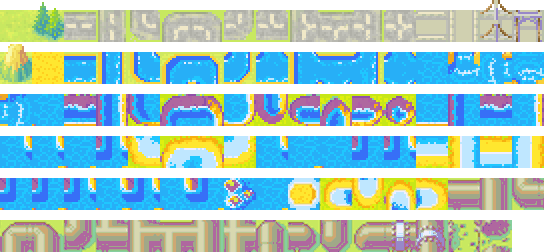
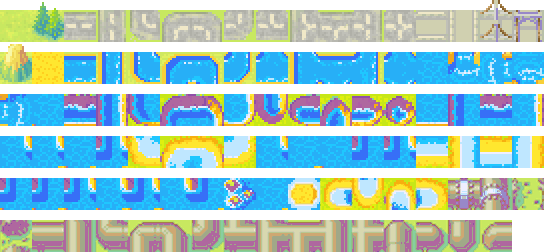
Added pipe seam to the map editor, replaced special case for Shoals instead of removing all non shoals when a shoal is added, just remove all terrains with a different name then the terrain that is going to be added from the results. Had to rename all coasts to Ocean because when adding an ocean the

Changed region(s): [[0.0, 0.8611, 0.9688, 1.0], [0.8125, 0.6944, 1.0, 0.8333], [0.5312, 0.7222, 0.5938, 0.8333]]

diff --git a/v2/src/com/customwars/client/model/map/connector/TerrainConnector.java b/v2/src/com/customwars/client/model/map/connector/TerrainConnector.java
@@ -120,14 +120,15 @@ public class TerrainConnector {
   }
 
   private Terrain getBestMatchingTerrain() {
+    // Remove terrains that don't have the same name from the results
+    // They are removed here, because terrains with different names can connect to each other
+    // When placing a shoal terrain we don't expect to see a coast
+    // When placing a pipe seam we don't expect to see a pipe, ...
+    removeTerrainsWithDifferentNamesFrom(perfectMatchingTerrains);
+    removeTerrainsWithDifferentNamesFrom(perfectAdjacentMatchingTerrains);
+    removeTerrainsWithDifferentNamesFrom(matchingTerrains);
+
     Terrain bestMatch = null;
-
-    if (isShoal(terrainToAdd)) {
-      removeAllNonShoalTerrainsFrom(perfectMatchingTerrains);
-      removeAllNonShoalTerrainsFrom(perfectAdjacentMatchingTerrains);
-      removeAllNonShoalTerrainsFrom(matchingTerrains);
-    }
-
     if (specialMatchingTerrain != null)
       bestMatch = specialMatchingTerrain;
     else if (!perfectMatchingTerrains.isEmpty()) {
@@ -145,19 +146,15 @@ public class TerrainConnector {
     return bestMatch;
   }
 
-  private void removeAllNonShoalTerrainsFrom(Collection<Terrain> collection) {
+  private void removeTerrainsWithDifferentNamesFrom(Collection<Terrain> collection) {
     Iterator<Terrain> it = collection.iterator();
 
     while (it.hasNext()) {
       Terrain terrain = it.next();
-      if (!isShoal(terrain)) {
+      if (!terrain.getName().equalsIgnoreCase(terrainToAdd.getName())) {
         it.remove();
       }
     }
-  }
-
-  private boolean isShoal(Terrain terrain) {
-    return terrain.getName().equalsIgnoreCase("shoal");
   }
 
   /**
